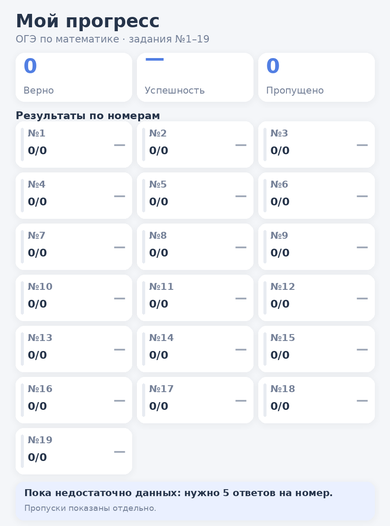
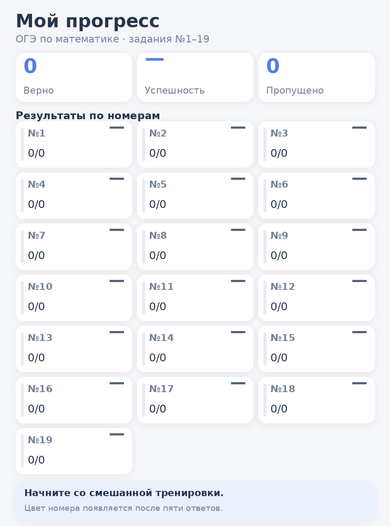
Emphasize success rates on mobile progress cards

diff --git a/app/bot/progress_image.py b/app/bot/progress_image.py
@@ -50,11 +50,11 @@ PALETTE = {
     "line": "#E7EBF1",
     "blue": "#527FE3",
     "blue_light": "#EAF0FF",
-    "neutral": "#A0A9B8",
+    "neutral": "#536479",
     "neutral_light": "#F1F3F6",
-    "red": "#C94954",
-    "yellow": "#A66B0A",
-    "green": "#21885E",
+    "red": "#AC3545",
+    "yellow": "#895707",
+    "green": "#176F4C",
 }
 
 
@@ -205,19 +205,13 @@ def render_overview(insights: dict[str, Any]) -> Image.Image:
             font=_font(22, True),
             fill=PALETTE["ink"] if sufficient else PALETTE["muted"],
         )
-        draw.text(
-            (x + 28, y + 52), f"{correct}/{answered}", font=_font(25, True), fill=PALETTE["ink"]
+        draw_fitted_text(
+            draw, (x + TILE_WIDTH - 16, y + 12), rate,
+            max_width=128, size=37, minimum_size=28, fill=accent, bold=True, anchor="rt",
         )
         draw_fitted_text(
-            draw,
-            (x + TILE_WIDTH - 14, y + 53),
-            rate,
-            max_width=78,
-            size=28,
-            minimum_size=21,
-            fill=accent,
-            bold=True,
-            anchor="rt",
+            draw, (x + 28, y + 64), f"{correct}/{answered}",
+            max_width=TILE_WIDTH - 44, size=25, minimum_size=13, fill=PALETTE["ink"],
         )
 
     rec_y = GRID_TOP + GRID_ROWS * (TILE_HEIGHT + TILE_GAP_Y) - TILE_GAP_Y + 18
@@ -227,7 +221,8 @@ def render_overview(insights: dict[str, Any]) -> Image.Image:
         (PAD + 20, rec_y + 12), _recommendation(insights), font=_font(22, True), fill=PALETTE["ink"]
     )
     draw.text(
-        (PAD + 20, rec_y + 49), "Пропуски показаны отдельно.", font=_font(19), fill=PALETTE["muted"]
+        (PAD + 20, rec_y + 49), "Цвет номера появляется после пяти ответов.",
+        font=_font(19), fill=PALETTE["muted"]
     )
     return image.crop((0, 0, WIDTH, rec_y + 102)).convert("RGB")
 

diff --git a/CHANGELOG.md b/CHANGELOG.md
@@ -9,6 +9,10 @@
 - Графики №11 и варианты №13 отправляются отдельно от формул в PNG режиме. Исходный рисунок можно открыть на всю ширину, а ответ отправить на сообщение с условием.
 - В смешанной тренировке ответы неверного формата на №11 и №19 не расходуют попытку.
 
+## Мобильная сводка прогресса
+
+- Процент и число ответов занимают разные строки. Цвета результатов стали контрастнее.
+
 ## Следующее действие из прогресса
 
 - Из пустого прогресса можно сразу перейти в смешанную тренировку.
